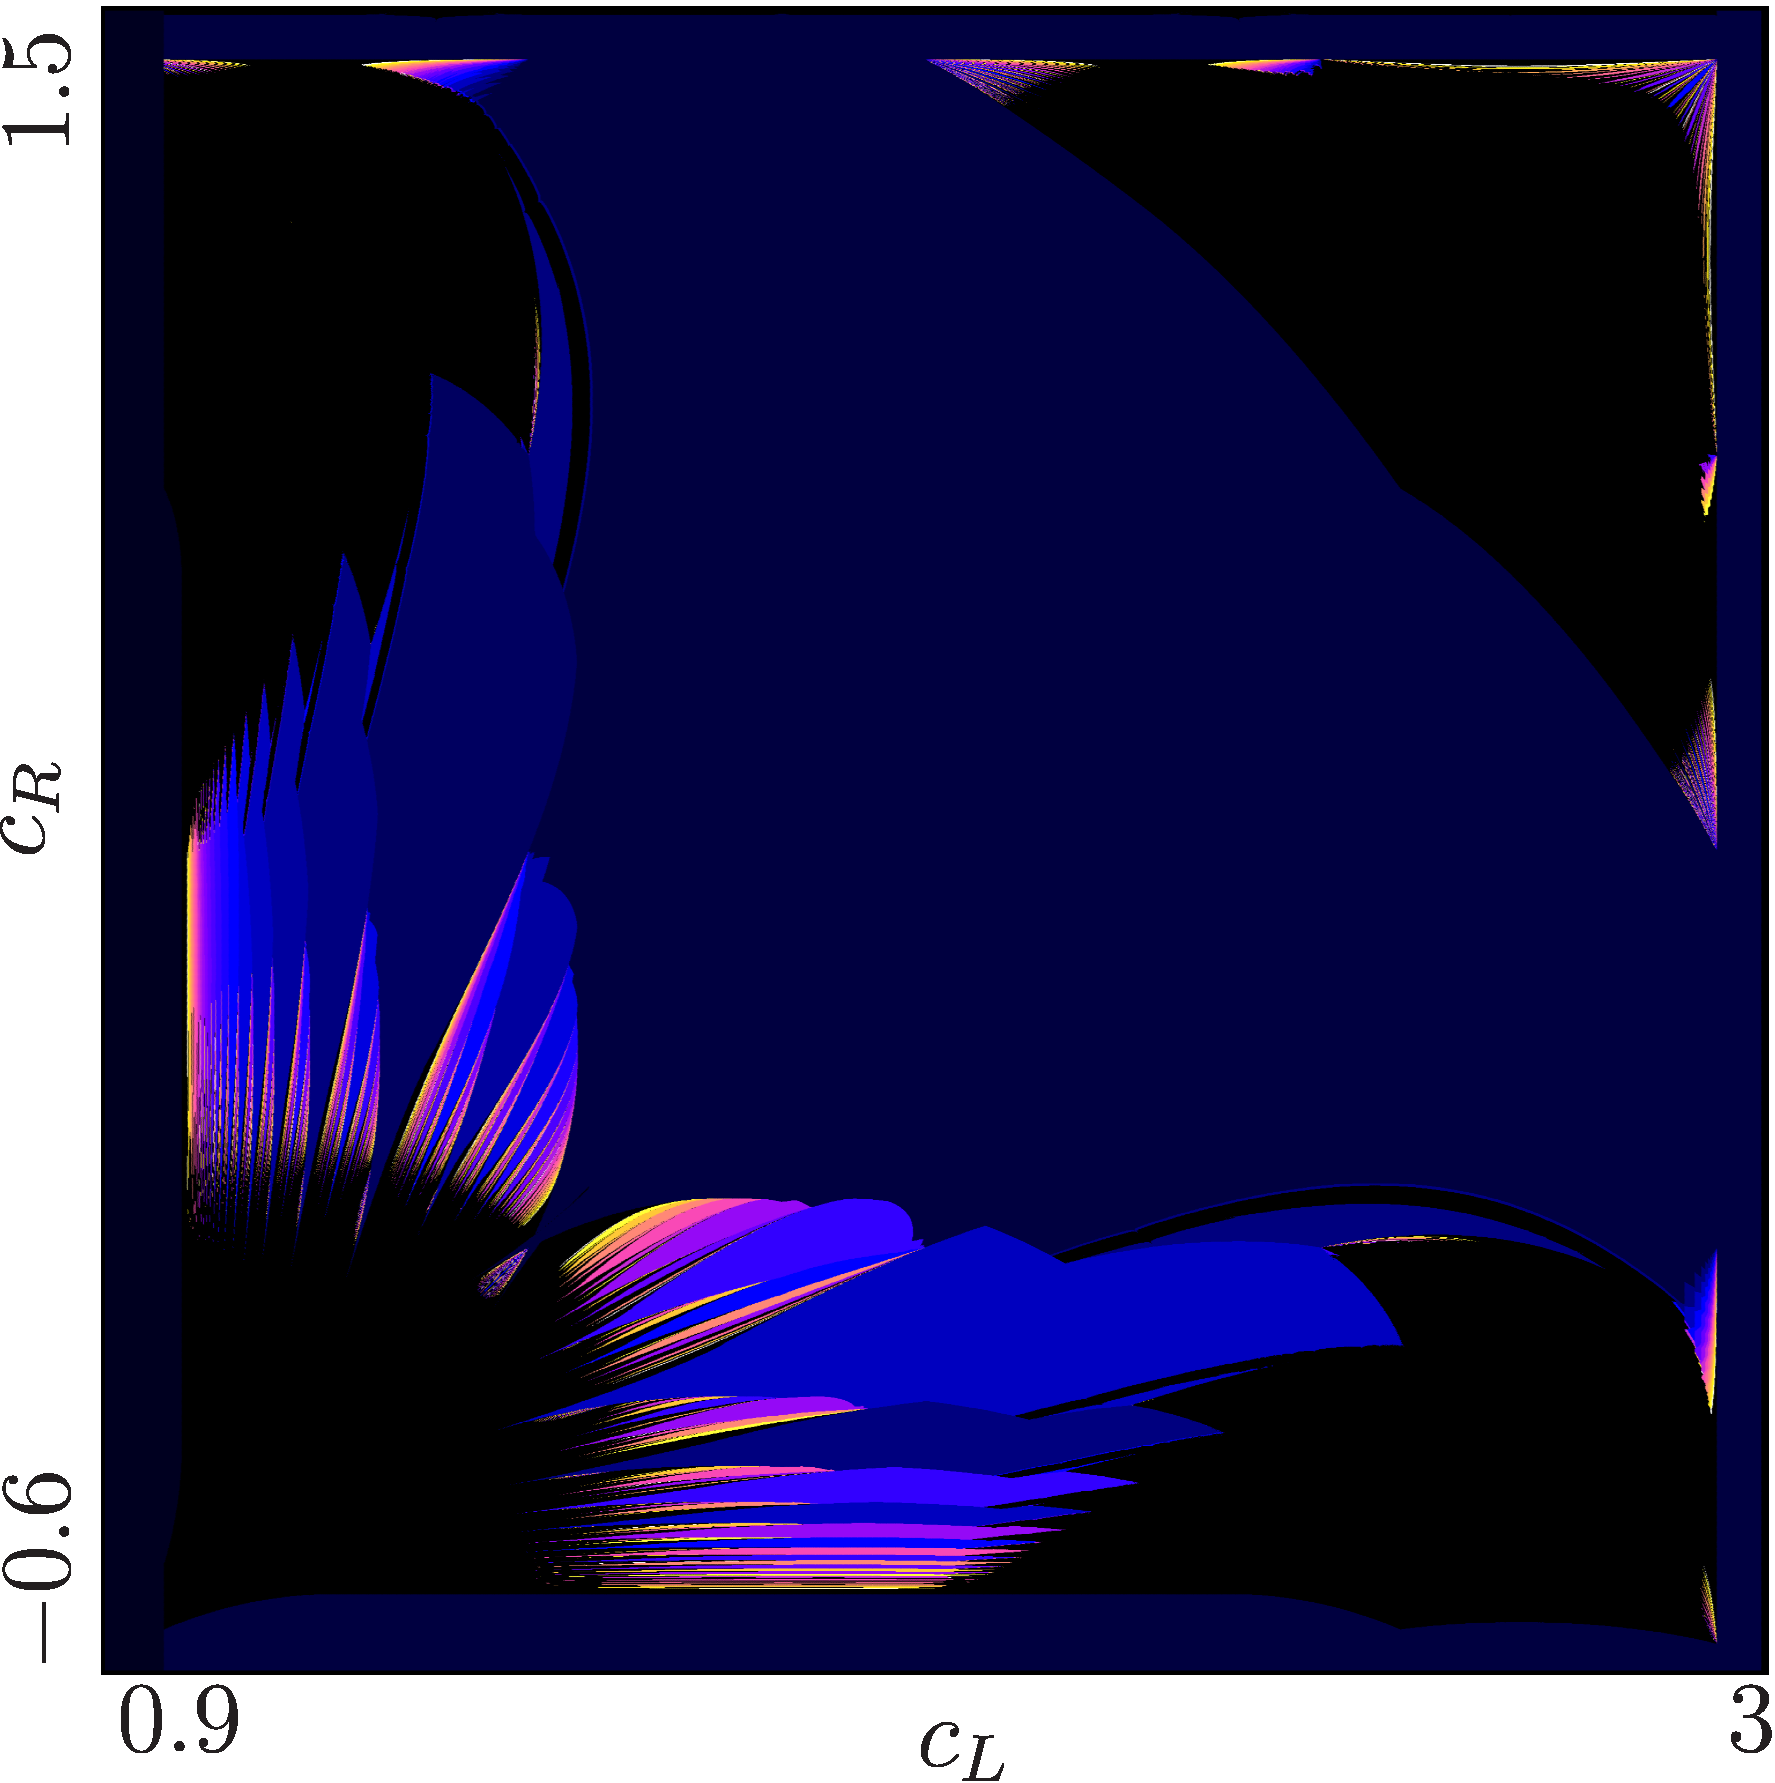
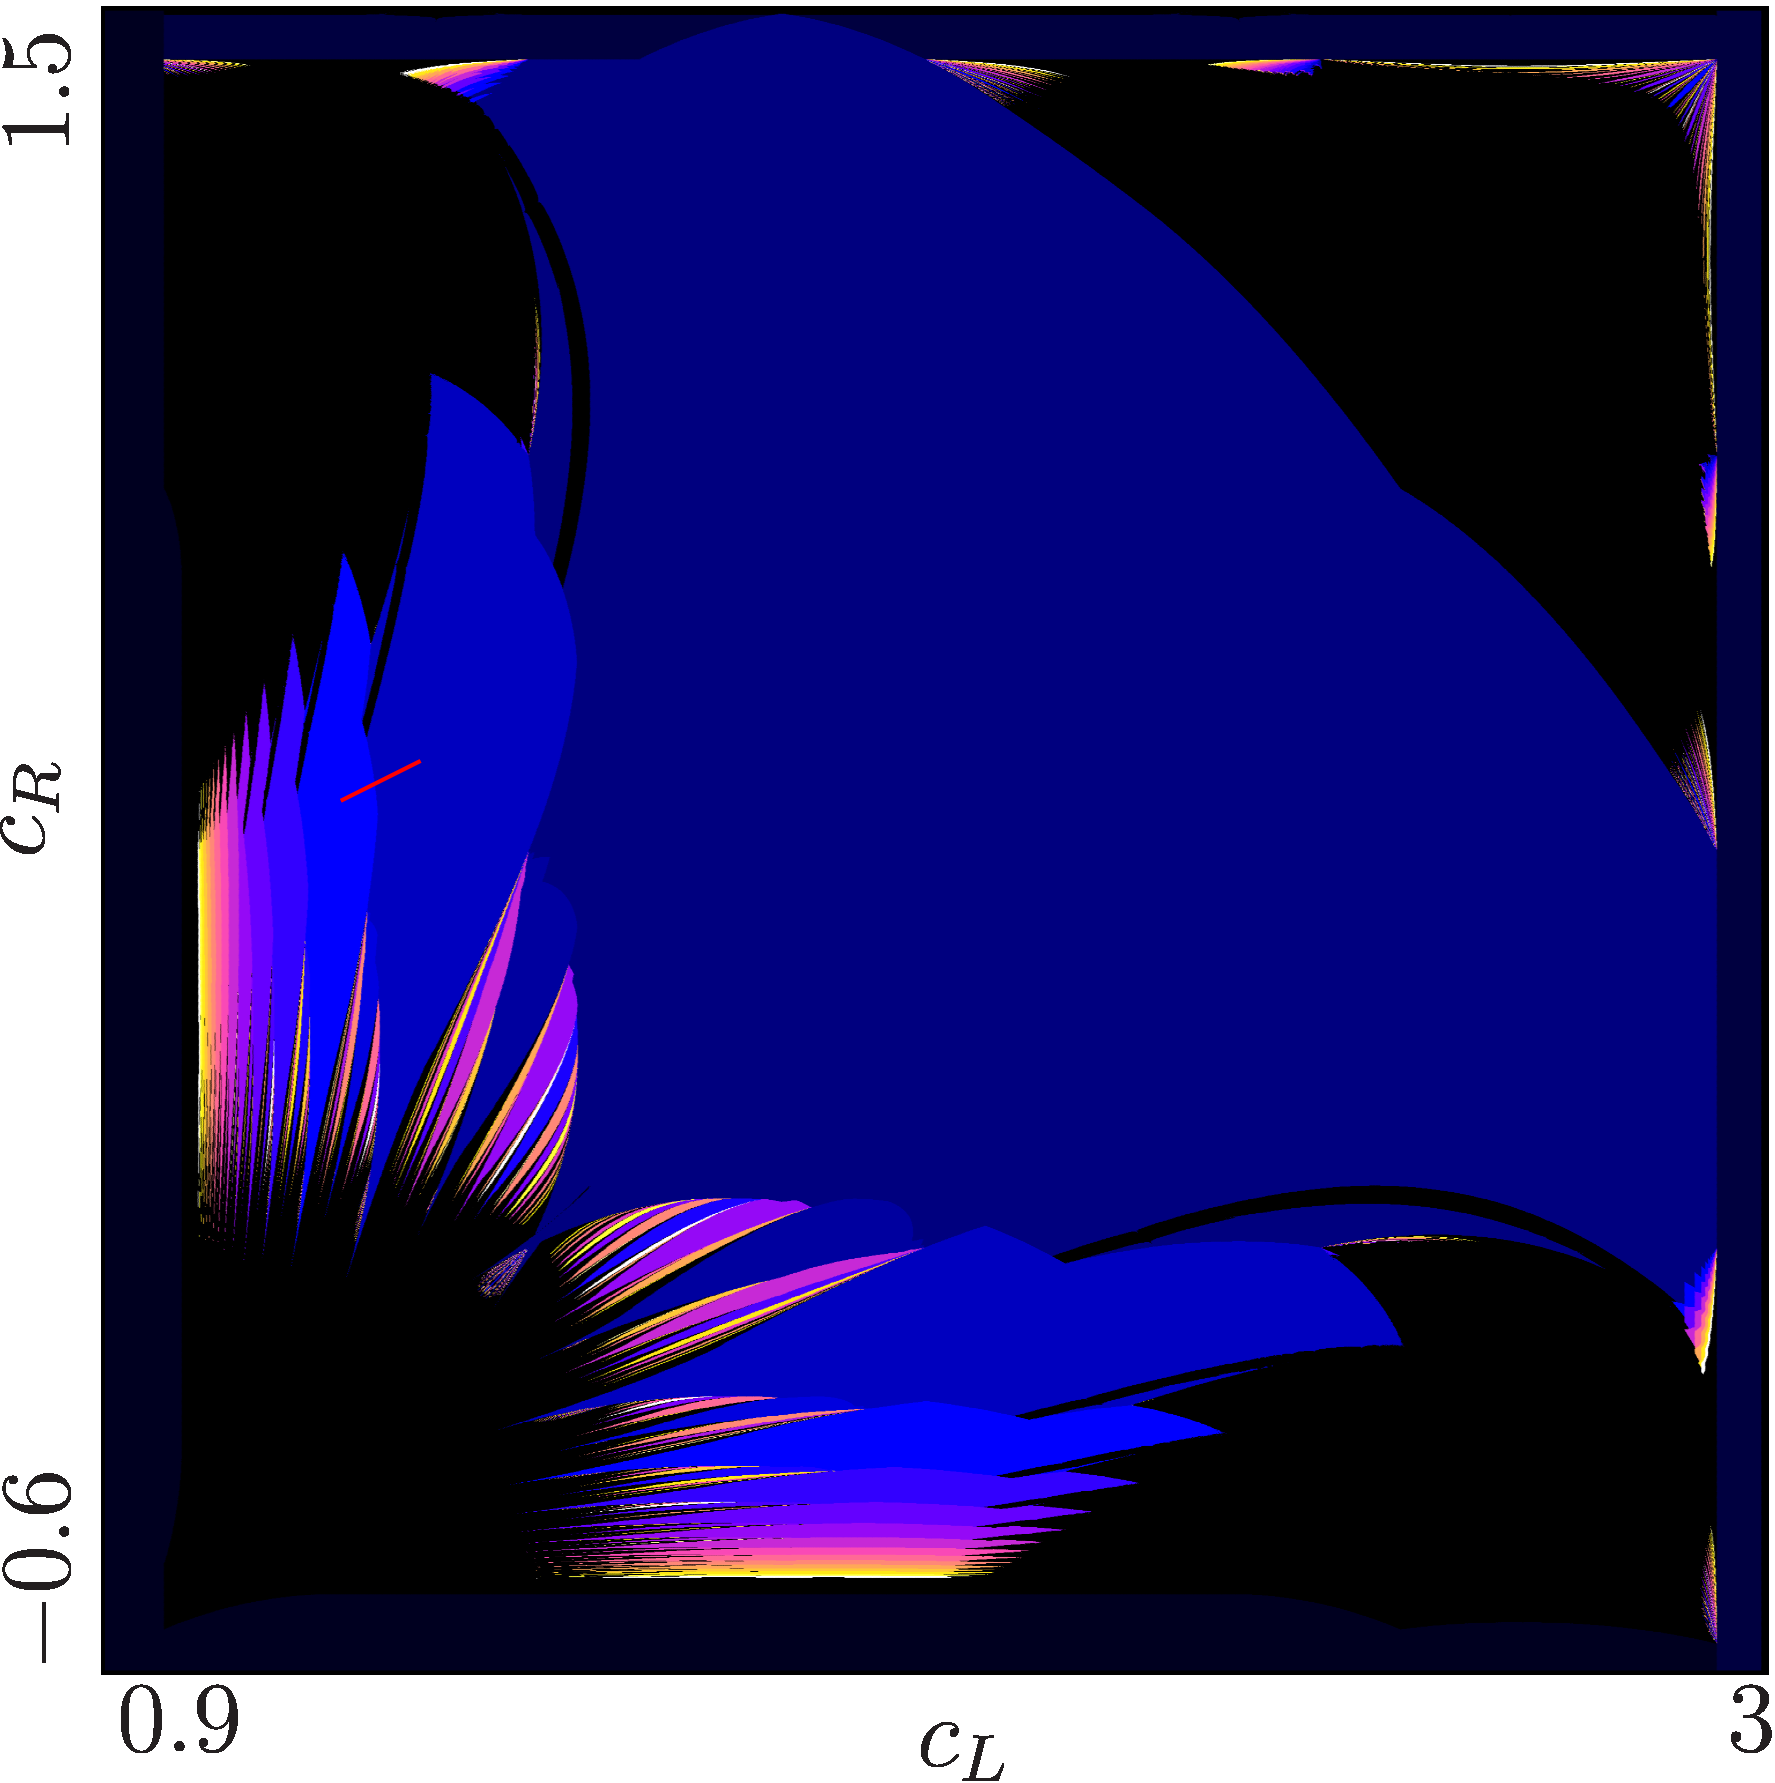
write about dynamics in quad model b=0

diff --git a/Report/Sections/50_Models/20_quadratic.tex b/Report/Sections/50_Models/20_quadratic.tex
@@ -36,7 +36,8 @@ Here all the 6 parameters $a_L, a_R, b_L, b_R, c_L,$ and $c_R$ act.
 \Cref{fig:quadratic.full.2d.full} shows a 2D-scan of the periods of the stable cycles.
 The parameters $a_L = a_R = 1$ and $b_L = b_R = 0$ are fixed and the parameters $c_L$ and $c_R$ are varied.
 Both are varied within the range $[0, 6]$ because beyond that the diagram just repeats infinitely.
-The structure in the bottom left corner is enhanced and depicted in \Cref{fig:quadratic.full.2d.z1}.
+The structure in the middle left is enhanced and depicted in \Cref{fig:quadratic.full.2d.z1}.
+
 \begin{figure}
     \centering
     \begin{subfigure}{0.4\textwidth}
@@ -53,3 +54,44 @@ The structure in the bottom left corner is enhanced and depicted in \Cref{fig:qu
     \end{subfigure}
     \caption{2D Scan of Full Quadratic Model}
 \end{figure}
+
+A phenomenon like in the original model could not be found here.
+But something very similar happens on the border of these wings.
+\Cref{fig:quad.full.Cobwebs} shows the cobwebs along the line marked in \Cref{fig:quadratic.full.2d.z1}.
+Before the border, there is one stable cycle with period 8.
+This cycle is depicted in \Cref{fig:quad.full.CobwebA} and its symbolic sequence is $\A^3B\C^3\D$.
+At the border, there is an area where two cycles coexist.
+You cannot see this in the 2D scans above, since it only ever picks up on one cycle.
+\Cref{fig:quad.full.CobwebB} shows the coexisting cycles at this border.
+In contrast to the original model, the cycle that existed before in \Cref{fig:quad.full.CobwebA}, still exists alongside the new cycle with period 6.
+The symbolic sequence of the new cycle is $\A^2\B\C^2\D$.
+
+This is different from the dynamics in the original model in two ways.
+First, the cycles before and after the area of coexistence have different periods.
+And second, the cycles existing outside the area of coexistence still exist inside the area of coexistence.
+In the original model, the cycles existing outside the area of coexistence would disappear at the border and new cycles would emerge inside this area.
+
+\begin{figure}
+    \centering
+    \begin{subfigure}{0.3\textwidth}
+        \centering
+        \includegraphics[width=\textwidth]{21_Quadratic_mod6/Cobweb_A/result.png}
+        \caption{Before border}
+        \label{fig:quad.full.CobwebA}
+    \end{subfigure}
+    \begin{subfigure}{0.3\textwidth}
+        \centering
+        \includegraphics[width=\textwidth]{21_Quadratic_mod6/Cobweb_B/result.png}
+        \caption{At border}
+        \label{fig:quad.full.CobwebB}
+    \end{subfigure}
+    \begin{subfigure}{0.3\textwidth}
+        \centering
+        \includegraphics[width=\textwidth]{21_Quadratic_mod6/Cobweb_C/result.png}
+        \caption{After border}
+        \label{fig:quad.full.CobwebC}
+    \end{subfigure}
+    \caption{Cobwebs along marked line}
+    \label{fig:quad.full.Cobwebs}
+\end{figure}
+
